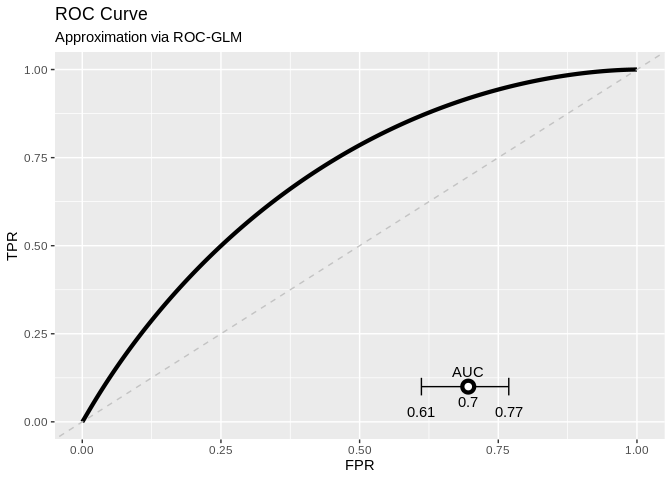
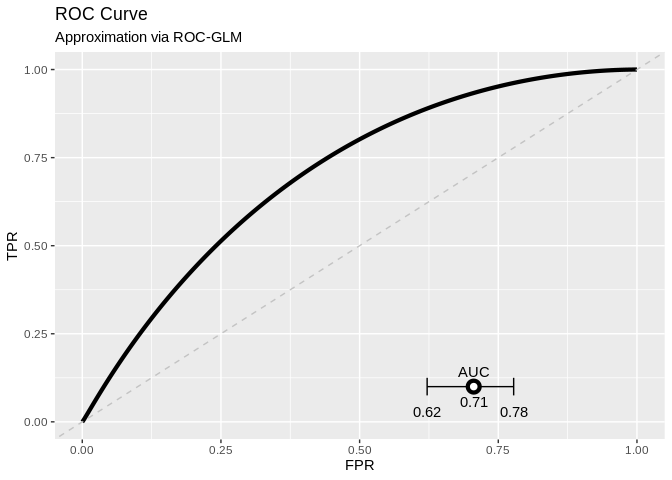
generated

diff --git a/tables/tab-results.tex b/tables/tab-results.tex
@@ -1,11 +1,11 @@
-\newcommand{\cidistlower}{0.6114}
-\newcommand{\cidistupper}{0.7689}
+\newcommand{\cidistlower}{0.6217}
+\newcommand{\cidistupper}{0.7777}
 \newcommand{\ciemplower}{0.61}
 \newcommand{\ciempupper}{0.7578}
-\newcommand{\aucdist}{0.6959}
+\newcommand{\aucdist}{0.7057}
 \newcommand{\aucpooled}{0.6887}
-\newcommand{\rocglmparamOne}{0.7905}
-\newcommand{\rocglmparamTwo}{1.1742}
+\newcommand{\rocglmparamOne}{0.8484}
+\newcommand{\rocglmparamTwo}{1.2085}
 \newcommand{\bsemp}{0.1721}
 \newcommand{\ts}{730}
 \newcommand{\nOne}{56}

diff --git a/README.md b/README.md
@@ -36,7 +36,7 @@ using the distributed
 The following contains the preparation of test data and a test model as
 [setup](#setup) while the second part is the [analysis](#analysis).
 
-Last time rendered: 13:46 - 07. Mar 2022 by user runner
+Last time rendered: 07:59 - 09. Mar 2022 by user runner
 
 Autobuild: [![Render
 README](https://github.com/difuture-lmu/datashield-demo-survival/actions/workflows/render-readme.yaml/badge.svg)](https://github.com/difuture-lmu/datashield-demo-survival/actions/workflows/render-readme.yaml)
@@ -92,7 +92,7 @@ remotes::install_github("difuture-lmu/dsPredictBase", upgrade = "never")
 #> Installing 12 packages: gridExtra, dotCall64, data.table, pbapply, mathjaxr, maps, viridis, spam, panelaggregation, metafor, fields, DSI
 #> Installing packages into '/home/runner/work/_temp/Library'
 #> (as 'lib' is unspecified)
-#> * checking for file ‘/tmp/RtmpB9oh8l/remotes90b5b2cea0a/datashield-dsBaseClient-d22ba51/DESCRIPTION’ ... OK
+#> * checking for file ‘/tmp/Rtmpra3nfT/remotes907a264e9511/datashield-dsBaseClient-d22ba51/DESCRIPTION’ ... OK
 #> * preparing ‘dsBaseClient’:
 #> * checking DESCRIPTION meta-information ... OK
 #> * checking for LF line-endings in source and make files and shell scripts
@@ -105,7 +105,7 @@ remotes::install_github("difuture-lmu/dsPredictBase", upgrade = "never")
 #> (as 'lib' is unspecified)
 #> Skipping install of 'dsBaseClient' from a github remote, the SHA1 (d22ba514) has not changed since last install.
 #>   Use `force = TRUE` to force installation
-#> * checking for file ‘/tmp/RtmpB9oh8l/remotes90b5535cba98/difuture-lmu-dsPredictBase-ed79fd1/DESCRIPTION’ ... OK
+#> * checking for file ‘/tmp/Rtmpra3nfT/remotes907a5c04c6f3/difuture-lmu-dsPredictBase-ed79fd1/DESCRIPTION’ ... OK
 #> * preparing ‘dsPredictBase’:
 #> * checking DESCRIPTION meta-information ... OK
 #> * checking for LF line-endings in source and make files and shell scripts
@@ -121,7 +121,7 @@ remotes::install_github("difuture-lmu/dsPredictBase", upgrade = "never")
 remotes::install_github("difuture-lmu/dsCalibration", upgrade = "never")
 #> Using github PAT from envvar GITHUB_PAT
 #> Downloading GitHub repo difuture-lmu/dsCalibration@HEAD
-#> * checking for file ‘/tmp/RtmpB9oh8l/remotes90b53dad49c/difuture-lmu-dsCalibration-1805632/DESCRIPTION’ ... OK
+#> * checking for file ‘/tmp/Rtmpra3nfT/remotes907a4982157a/difuture-lmu-dsCalibration-1805632/DESCRIPTION’ ... OK
 #> * preparing ‘dsCalibration’:
 #> * checking DESCRIPTION meta-information ... OK
 #> * checking for LF line-endings in source and make files and shell scripts
@@ -132,7 +132,7 @@ remotes::install_github("difuture-lmu/dsCalibration", upgrade = "never")
 remotes::install_github("difuture-lmu/dsROCGLM", upgrade = "never")
 #> Using github PAT from envvar GITHUB_PAT
 #> Downloading GitHub repo difuture-lmu/dsROCGLM@HEAD
-#> * checking for file ‘/tmp/RtmpB9oh8l/remotes90b52da1ffe1/difuture-lmu-dsROCGLM-c951c0c/DESCRIPTION’ ... OK
+#> * checking for file ‘/tmp/Rtmpra3nfT/remotes907a39dcecec/difuture-lmu-dsROCGLM-c951c0c/DESCRIPTION’ ... OK
 #> * preparing ‘dsROCGLM’:
 #> * checking DESCRIPTION meta-information ... OK
 #> * checking for LF line-endings in source and make files and shell scripts
@@ -224,6 +224,7 @@ datashield.symbols(conn)
 #> 
 #> $ds5
 #> [1] "D"
+
 (ddim = ds.dim("D"))
 #> $`dimensions of D in ds1`
 #> [1] 56 11
@@ -253,10 +254,10 @@ load(here::here("data/mod.Rda"))
 ## Push the model to the servers (upload takes ~11 Minutes):
 t0 = proc.time()
 pushObject(conn, obj = mod)
-#> [2022-03-07 13:49:55] Your object is bigger than 1 MB (14.4 MB). Uploading larger objects may take some time.
+#> [2022-03-09 08:01:47] Your object is bigger than 1 MB (14.4 MB). Uploading larger objects may take some time.
 (t0 = proc.time() - t0)
 #>    user  system elapsed 
-#> 113.497  52.915 784.454
+#> 108.169  53.985 765.709
 datashield.symbols(conn)
 #> $ds1
 #> [1] "D"   "mod"
@@ -417,34 +418,34 @@ sqrt(2 * log(1.25 / delta)) * l2s / epsilon
 roc_glm = dsROCGLM(conn, "D$valid", "pinv", epsilon = epsilon,
   delta = delta, dat_name = "D", seed_object = "D$age")
 #> 
-#> [2022-03-07 14:03:24] L2 sensitivity is: 0.016
+#> [2022-03-09 08:15:13] L2 sensitivity is: 0.016
 #> 
-#> [2022-03-07 14:03:26] Initializing ROC-GLM
+#> [2022-03-09 08:15:17] Initializing ROC-GLM
 #> 
-#> [2022-03-07 14:03:26] Host: Received scores of negative response
-#> [2022-03-07 14:03:26] Receiving negative scores
-#> [2022-03-07 14:03:28] Host: Pushing pooled scores
-#> [2022-03-07 14:03:30] Server: Calculating placement values and parts for ROC-GLM
-#> [2022-03-07 14:03:32] Server: Calculating probit regression to obtain ROC-GLM
-#> [2022-03-07 14:03:34] Deviance of iter1=32.6342
-#> [2022-03-07 14:03:36] Deviance of iter2=41.1218
-#> [2022-03-07 14:03:39] Deviance of iter3=44.4089
-#> [2022-03-07 14:03:41] Deviance of iter4=44.5915
-#> [2022-03-07 14:03:43] Deviance of iter5=44.592
-#> [2022-03-07 14:03:45] Deviance of iter6=44.592
-#> [2022-03-07 14:03:45] Host: Finished calculating ROC-GLM
-#> [2022-03-07 14:03:45] Host: Cleaning data on server
-#> [2022-03-07 14:03:47] Host: Calculating AUC and CI
-#> [2022-03-07 14:03:57] Finished!
+#> [2022-03-09 08:15:17] Host: Received scores of negative response
+#> [2022-03-09 08:15:17] Receiving negative scores
+#> [2022-03-09 08:15:20] Host: Pushing pooled scores
+#> [2022-03-09 08:15:23] Server: Calculating placement values and parts for ROC-GLM
+#> [2022-03-09 08:15:27] Server: Calculating probit regression to obtain ROC-GLM
+#> [2022-03-09 08:15:30] Deviance of iter1=32.6342
+#> [2022-03-09 08:15:33] Deviance of iter2=40.8539
+#> [2022-03-09 08:15:37] Deviance of iter3=44.5606
+#> [2022-03-09 08:15:40] Deviance of iter4=44.8017
+#> [2022-03-09 08:15:43] Deviance of iter5=44.8027
+#> [2022-03-09 08:15:47] Deviance of iter6=44.8027
+#> [2022-03-09 08:15:47] Host: Finished calculating ROC-GLM
+#> [2022-03-09 08:15:47] Host: Cleaning data on server
+#> [2022-03-09 08:15:50] Host: Calculating AUC and CI
+#> [2022-03-09 08:16:07] Finished!
 roc_glm
 #> 
 #> ROC-GLM after Pepe:
 #> 
-#>  Binormal form: pnorm(0.79 + 1.17*qnorm(t))
+#>  Binormal form: pnorm(0.85 + 1.21*qnorm(t))
 #> 
-#>  AUC and 0.95 CI: [0.61----0.7----0.77]
+#>  AUC and 0.95 CI: [0.62----0.71----0.78]
 roc_glm$ci
-#> [1] 0.6114123 0.7689032
+#> [1] 0.6217299 0.7777165
 
 gg_distr_roc = plot(roc_glm)
 gg_distr_roc
@@ -494,7 +495,7 @@ auc = pROC::auc(dat_test$valid, 1 - probs)
 #> Setting direction: controls < cases
 c(auc_emp = auc, auc_distr_roc_glm = roc_glm$auc)
 #>           auc_emp auc_distr_roc_glm 
-#>         0.6886905         0.6958664
+#>         0.6886905         0.7057129
 
 source(here::here("R/helper.R"))
 (ci_emp = logitToAUC(pepeCI(toLogit(auc), 0.05, deLongVar(1 - probs, dat_test$valid))))
